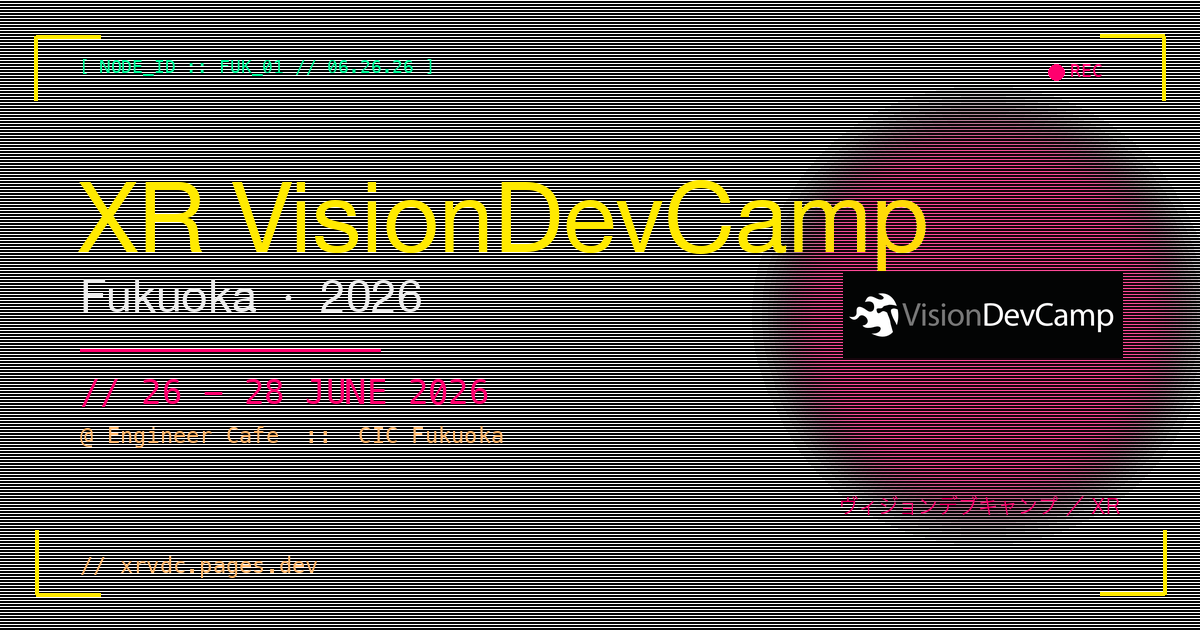
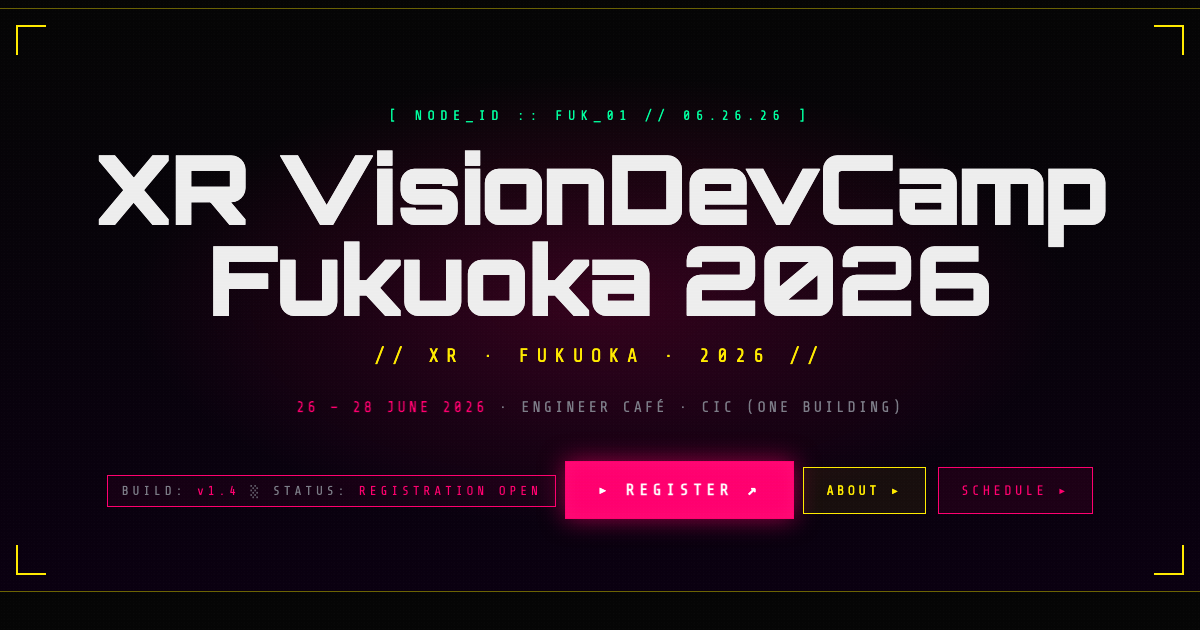
Cleanup home page contents and event card output

diff --git a/content/staging/about.ja.md b/content/staging/about.ja.md
@@ -5,12 +5,18 @@ date: 2026-04-30T10:00:00+09:00
 
 ### シリコンバレー発祥の歴史あるハッカソン
 
-2007 年の iPhone 発売を起源とし、VisionDevCamp は 18 年以上のハッカソンの歴史を継承しています。
-**iPhoneDevCamp** (2007–2009) から始まり、**iPadDevCamp** (2010)、**iOSDevCamp** (2010–2013) と発展し、現在は空間コンピューティング時代の **VisionDevCamp** として開催しています。
+2007 年の iPhone 発売を起源とし、この DevCamp シリーズは約 20 年にわたるハッカソンの歴史を継承しています:
+
+- **iPhoneDevCamp** (2007 – 2009)
+- **iPadDevCamp** (2010)
+- **iOSDevCamp** (2010 – 2013)
+- **VisionDevCamp** (2024 – 2025) — Apple Vision Pro / visionOS に特化
+
+2026 年からは **XR VisionDevCamp** として、空間コンピューティング時代の **全 XR / AR / VR 対応プラットフォーム** に対象を拡大します — Apple Vision Pro、Android XR、Meta Quest、Snap Spectacles、Xreal、HTC、その他多数。
 
 ### イベント形式
 
-詳細: [ハッカソンページ](/staging/hackathon/)
+詳細: [ハッカソンページ](/hackathon/)
 
 MIT Reality Hack のような他の大規模イベントと、このハッカソンの違い:
 

diff --git a/content/_index.ja.md b/content/_index.ja.md
@@ -1,12 +1,12 @@
 ---
 title: "XR VisionDevCamp 2026"
 date: 2026-04-30T10:00:00+09:00
-description: "XR VisionDevCamp は 2026 年夏、福岡で開催されます — 6/26 – 6/28、エンジニアカフェにて。"
+description: "XR VisionDevCamp は、2026 年 6 月 26 日 – 28 日に福岡で開催される 2.5 日間の XR / AR / VR 特化型ハッカソンです。年齢・経験を問わず、どなたでも歓迎（日英対応）。"
 layout: landing
 registrationUrl: "https://luma.com/i5gerreb"
 ---
 
-VisionDevCamp の次回開催が **福岡** にて決定しました。
-**エンジニアカフェ** と **CIC Fukuoka** の2箇所で行う、 XR / AR / AI ハッカソンです。
+**XR VisionDevCamp** は、**2026 年 6 月 26 日 – 28 日** に **福岡** で開催される 2.5 日間の XR / AR / VR 特化型ハッカソンです。
+年齢・経験を問わず、どなたでも歓迎します — 日本語・英語対応。
 
-> 2026 年 6 月 26 日 – 28 日 · 金 – 日 · ハッカソン・AR エキスポ・授賞式
+> 2026 年 6 月 26 日 – 28 日 · 金 – 日 · ハッカソン · AR エキスポ · 授賞式

diff --git a/content/staging/_index.ja.md b/content/staging/_index.ja.md
@@ -1,12 +1,12 @@
 ---
 title: "XR VisionDevCamp 2026"
 date: 2026-04-30T10:00:00+09:00
-description: "XR VisionDevCamp は 2026 年夏、福岡で開催されます — 6/26 – 6/28、エンジニアカフェにて。"
+description: "XR VisionDevCamp は、2026 年 6 月 26 日 – 28 日に福岡で開催される 2.5 日間の XR / AR / VR 特化型ハッカソンです。年齢・経験を問わず、どなたでも歓迎（日英対応）。"
 layout: landing
 registrationUrl: "https://luma.com/i5gerreb"
 ---
 
-VisionDevCamp の次回開催が **福岡** にて決定しました。
-**エンジニアカフェ** と **CIC Fukuoka** の2箇所で行う、 XR / AR / AI ハッカソンです。
+**XR VisionDevCamp** は、**2026 年 6 月 26 日 – 28 日** に **福岡** で開催される 2.5 日間の XR / AR / VR 特化型ハッカソンです。
+年齢・経験を問わず、どなたでも歓迎します — 日本語・英語対応。
 
-> 2026 年 6 月 26 日 – 28 日 · 金 – 日 · ハッカソン・AR エキスポ・授賞式
+> 2026 年 6 月 26 日 – 28 日 · 金 – 日 · ハッカソン · AR エキスポ · 授賞式

diff --git a/content/staging/about.en.md b/content/staging/about.en.md
@@ -5,12 +5,18 @@ date: 2026-04-30T10:00:00+09:00
 
 ### A Historic Hackathon Originating from Silicon Valley
 
-With its origins in the release of the iPhone in 2007, VisionDevCamp carries 18+ years of hackathon heritage.
-Starting with **iPhoneDevCamp** (2007–2009), it expanded to **iPadDevCamp** (2010), **iOSDevCamp** (2010–2013), and now **VisionDevCamp** for the spatial-computing era.
+With its origins in the release of the iPhone in 2007, this DevCamp series carries nearly two decades of hackathon heritage:
+
+- **iPhoneDevCamp** (2007 – 2009)
+- **iPadDevCamp** (2010)
+- **iOSDevCamp** (2010 – 2013)
+- **VisionDevCamp** (2024 – 2025) — focused on Apple Vision Pro and visionOS
+
+For 2026, **XR VisionDevCamp** expands the scope to **all XR / AR / VR-capable platforms** of the spatial-computing era — Apple Vision Pro, Android XR, Meta Quest, Snap Spectacles, Xreal, HTC, and beyond.
 
 ### Event Format
 
-Detailed format: [Hackathon page](/staging/hackathon/)
+Detailed format: [Hackathon page](/hackathon/)
 
 What makes this hackathon distinct from larger events like MIT Reality Hack:
 

diff --git a/content/about.ja.md b/content/about.ja.md
@@ -5,8 +5,14 @@ date: 2026-04-30T10:00:00+09:00
 
 ### シリコンバレー発祥の歴史あるハッカソン
 
-2007 年の iPhone 発売を起源とし、VisionDevCamp は 18 年以上のハッカソンの歴史を継承しています。
-**iPhoneDevCamp** (2007–2009) から始まり、**iPadDevCamp** (2010)、**iOSDevCamp** (2010–2013) と発展し、現在は空間コンピューティング時代の **VisionDevCamp** として開催しています。
+2007 年の iPhone 発売を起源とし、この DevCamp シリーズは約 20 年にわたるハッカソンの歴史を継承しています:
+
+- **iPhoneDevCamp** (2007 – 2009)
+- **iPadDevCamp** (2010)
+- **iOSDevCamp** (2010 – 2013)
+- **VisionDevCamp** (2024 – 2025) — Apple Vision Pro / visionOS に特化
+
+2026 年からは **XR VisionDevCamp** として、空間コンピューティング時代の **全 XR / AR / VR 対応プラットフォーム** に対象を拡大します — Apple Vision Pro、Android XR、Meta Quest、Snap Spectacles、Xreal、HTC、その他多数。
 
 ### イベント形式
 

diff --git a/content/_index.en.md b/content/_index.en.md
@@ -1,12 +1,12 @@
 ---
 title: "XR VisionDevCamp 2026"
 date: 2026-04-30T10:00:00+09:00
-description: "XR VisionDevCamp returns to Fukuoka in Summer 2026 — 26-28 June at Engineer Café."
+description: "XR VisionDevCamp is a 2.5-day XR/AR/VR-focused hackathon in Fukuoka, 6/26–6/28. All ages and experience levels welcome (Japanese and English spoken)."
 layout: landing
 registrationUrl: "https://luma.com/i5gerreb"
 ---
 
-The next edition of VisionDevCamp lands in **Fukuoka, Japan** this summer.
-A multi-site XR / AR / AI hackathon culminating at **Engineer Café** and **CIC Fukuoka**.
+**XR VisionDevCamp** is a 2.5-day XR / AR / VR-focused hackathon taking place in **Fukuoka, 6/26 – 6/28**.
+All ages and experience levels welcome — Japanese and English spoken.
 
-> 26 – 28 June 2026 · Fri – Sun · Hackathon, AR Expo, Closing Awards
+> 26 – 28 June 2026 · Fri – Sun · Hackathon · AR Expo · Closing Awards

diff --git a/content/staging/_index.en.md b/content/staging/_index.en.md
@@ -1,12 +1,12 @@
 ---
 title: "XR VisionDevCamp 2026"
 date: 2026-04-30T10:00:00+09:00
-description: "XR VisionDevCamp returns to Fukuoka in Summer 2026 — 26-28 June at Engineer Café."
+description: "XR VisionDevCamp is a 2.5-day XR/AR/VR-focused hackathon in Fukuoka, 6/26–6/28. All ages and experience levels welcome (Japanese and English spoken)."
 layout: landing
 registrationUrl: "https://luma.com/i5gerreb"
 ---
 
-The next edition of VisionDevCamp lands in **Fukuoka, Japan** this summer.
-A multi-site XR / AR / AI hackathon culminating at **Engineer Café** and **CIC Fukuoka**.
+**XR VisionDevCamp** is a 2.5-day XR / AR / VR-focused hackathon taking place in **Fukuoka, 6/26 – 6/28**.
+All ages and experience levels welcome — Japanese and English spoken.
 
-> 26 – 28 June 2026 · Fri – Sun · Hackathon, AR Expo, Closing Awards
+> 26 – 28 June 2026 · Fri – Sun · Hackathon · AR Expo · Closing Awards

diff --git a/content/about.en.md b/content/about.en.md
@@ -5,8 +5,14 @@ date: 2026-04-30T10:00:00+09:00
 
 ### A Historic Hackathon Originating from Silicon Valley
 
-With its origins in the release of the iPhone in 2007, VisionDevCamp carries 18+ years of hackathon heritage.
-Starting with **iPhoneDevCamp** (2007–2009), it expanded to **iPadDevCamp** (2010), **iOSDevCamp** (2010–2013), and now **VisionDevCamp** for the spatial-computing era.
+With its origins in the release of the iPhone in 2007, this DevCamp series carries nearly two decades of hackathon heritage:
+
+- **iPhoneDevCamp** (2007 – 2009)
+- **iPadDevCamp** (2010)
+- **iOSDevCamp** (2010 – 2013)
+- **VisionDevCamp** (2024 – 2025) — focused on Apple Vision Pro and visionOS
+
+For 2026, **XR VisionDevCamp** expands the scope to **all XR / AR / VR-capable platforms** of the spatial-computing era — Apple Vision Pro, Android XR, Meta Quest, Snap Spectacles, Xreal, HTC, and beyond.
 
 ### Event Format
 
